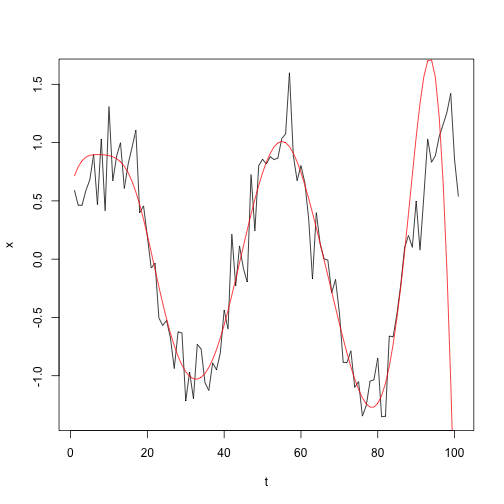
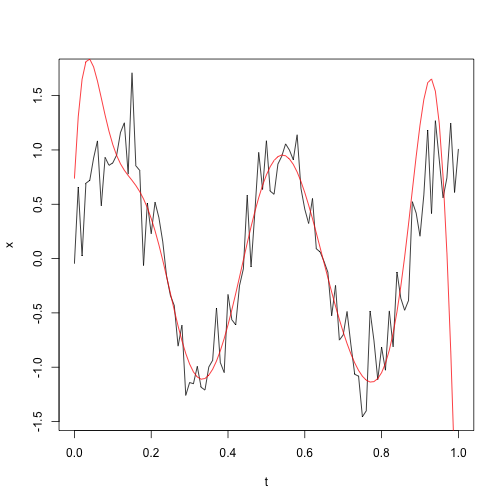
filtfilt

diff --git a/_site/r/2014/02/19/filtfilt.html b/_site/r/2014/02/19/filtfilt.html
@@ -222,12 +222,7 @@
 21
 22
 23
-24
-25
-26
-27
-28
-29</code></pre></div></td><td class='code'><div class='highlight'><pre>ab <span class='o'>&lt;-</span> signal<span class='o'>::</span>butter<span class='p'>(</span><span class='m'>3</span><span class='p'>,</span> <span class='m'>0.1</span><span class='p'>)</span>
+24</code></pre></div></td><td class='code'><div class='highlight'><pre>ab <span class='o'>&lt;-</span> signal<span class='o'>::</span>butter<span class='p'>(</span><span class='m'>3</span><span class='p'>,</span> <span class='m'>0.1</span><span class='p'>)</span>
 t <span class='o'>&lt;-</span> seq<span class='p'>(</span><span class='m'>0</span><span class='p'>,</span> <span class='m'>1</span><span class='p'>,</span> <span class='m'>0.01</span><span class='p'>)</span>
 x <span class='o'>&lt;-</span> sin<span class='p'>(</span><span class='m'>2</span> <span class='o'>*</span> pi <span class='o'>*</span> t <span class='o'>*</span> <span class='m'>2.3</span><span class='p'>)</span> <span class='o'>+</span> <span class='m'>0.25</span> <span class='o'>*</span> rnorm<span class='p'>(</span>length<span class='p'>(</span>t<span class='p'>))</span>
 <span class='c1'>## below could be extracted to a function when working</span>
@@ -246,14 +241,20 @@ si <span class='o'>&lt;-</span> si<span class='p'>[</span><span class='m'>-1</sp
 nx <span class='o'>&lt;-</span> length<span class='p'>(</span>x<span class='p'>)</span>
 n <span class='o'>&lt;-</span> max<span class='p'>(</span>na<span class='p'>,</span> nb<span class='p'>)</span>
 lrefl <span class='o'>&lt;-</span> <span class='m'>3</span> <span class='o'>*</span> <span class='p'>(</span>n <span class='o'>-</span> <span class='m'>1</span><span class='p'>)</span>
-<span class='kr'>if</span> <span class='p'>(</span>na <span class='o'>&lt;</span> n<span class='p'>)</span> a <span class='o'>&lt;-</span> c<span class='p'>(</span>a<span class='p'>,</span> rep<span class='p'>(</span><span class='m'>0</span><span class='p'>,</span> n <span class='o'>-</span> na<span class='p'>))</span>
-<span class='kr'>if</span> <span class='p'>(</span>nb <span class='o'>&lt;</span> n<span class='p'>)</span> b <span class='o'>&lt;-</span> c<span class='p'>(</span>b<span class='p'>,</span> rep<span class='p'>(</span><span class='m'>0</span><span class='p'>,</span> n <span class='o'>-</span> nb<span class='p'>))</span>
-v <span class='o'>&lt;-</span> c<span class='p'>(</span><span class='m'>2</span> <span class='o'>*</span> x<span class='p'>[</span><span class='m'>1</span><span class='p'>]</span> <span class='o'>-</span> x<span class='p'>[</span>seq<span class='p'>(</span>lrefl <span class='o'>+</span> <span class='m'>1</span><span class='p'>,</span> <span class='m'>2</span><span class='p'>,</span> <span class='m'>-1</span><span class='p'>)],</span> x<span class='p'>,</span> <span class='m'>2</span> <span class='o'>*</span> x<span class='p'>[</span>nx<span class='p'>]</span> <span class='o'>-</span> x<span class='p'>[</span>seq<span class='p'>(</span>nx <span class='o'>-</span> <span class='m'>1</span><span class='p'>,</span> nx <span class='o'>-</span> 
-    lrefl<span class='p'>,</span> <span class='m'>-1</span><span class='p'>)])</span>
-v <span class='o'>&lt;-</span> signal<span class='o'>::</span>filter<span class='p'>(</span>b<span class='p'>,</span> a<span class='p'>,</span> v<span class='p'>,</span> si <span class='o'>*</span> v<span class='p'>[</span><span class='m'>1</span><span class='p'>])</span>  <span class='c1'># forward filter</span>
+<span class='kr'>if</span> <span class='p'>(</span>na <span class='o'>&lt;</span> n<span class='p'>)</span> a <span class='o'>&lt;-</span> c<span class='p'>(</span>a<span class='p'>,</span> rep<span class='p'>(</span><span class='m'>0</span><span class='p'>,</span> length.out <span class='o'>=</span> n <span class='o'>-</span> na<span class='p'>))</span>
+<span class='kr'>if</span> <span class='p'>(</span>nb <span class='o'>&lt;</span> n<span class='p'>)</span> b <span class='o'>&lt;-</span> c<span class='p'>(</span>b<span class='p'>,</span> rep<span class='p'>(</span><span class='m'>0</span><span class='p'>,</span> length.out <span class='o'>=</span> n <span class='o'>-</span> nb<span class='p'>))</span>
+v <span class='o'>&lt;-</span> c<span class='p'>(</span><span class='m'>2</span> <span class='o'>*</span> x<span class='p'>[</span><span class='m'>1</span><span class='p'>]</span> <span class='o'>-</span> x<span class='p'>[</span>seq.int<span class='p'>(</span>lrefl <span class='o'>+</span> <span class='m'>1</span><span class='p'>,</span> <span class='m'>2</span><span class='p'>,</span> <span class='m'>-1</span><span class='p'>)],</span> x<span class='p'>,</span> <span class='m'>2</span> <span class='o'>*</span> x<span class='p'>[</span>nx<span class='p'>]</span> <span class='o'>-</span> x<span class='p'>[</span>seq.int<span class='p'>(</span>nx <span class='o'>-</span> 
+    <span class='m'>1</span><span class='p'>,</span> nx <span class='o'>-</span> lrefl<span class='p'>,</span> <span class='m'>-1</span><span class='p'>)])</span>
+warning<span class='p'>(</span><span class='s'>&quot;relying on filter to do as in matlab\n&quot;</span><span class='p'>)</span>
+</pre></div>
+</td></tr></table><div class='highlight'><pre><code class='text'>## Warning: relying on filter to do as in matlab
+</code></pre></div><table class='highlighttable'><tr><td class='linenos'><div class='linenodiv'><pre><code class='r'>1
+2
+3
+4
+5</code></pre></div></td><td class='code'><div class='highlight'><pre>v <span class='o'>&lt;-</span> signal<span class='o'>::</span>filter<span class='p'>(</span>b<span class='p'>,</span> a<span class='p'>,</span> v<span class='p'>,</span> si <span class='o'>*</span> v<span class='p'>[</span><span class='m'>1</span><span class='p'>])</span>  <span class='c1'># forward filter</span>
 v <span class='o'>&lt;-</span> rev<span class='p'>(</span>signal<span class='o'>::</span>filter<span class='p'>(</span>b<span class='p'>,</span> a<span class='p'>,</span> rev<span class='p'>(</span>v<span class='p'>),</span> si <span class='o'>*</span> v<span class='p'>[</span>nx<span class='p'>]))</span>  <span class='c1'># reverse filter</span>
 y <span class='o'>&lt;-</span> v<span class='p'>[</span>seq.int<span class='p'>(</span>lrefl <span class='o'>+</span> <span class='m'>1</span><span class='p'>,</span> lx <span class='o'>+</span> lrefl<span class='p'>)]</span>
-t <span class='o'>&lt;-</span> seq_along<span class='p'>(</span>x<span class='p'>)</span>
 plot<span class='p'>(</span>t<span class='p'>,</span> x<span class='p'>,</span> type <span class='o'>=</span> <span class='s'>&quot;l&quot;</span><span class='p'>)</span>
 lines<span class='p'>(</span>t<span class='p'>,</span> y<span class='p'>,</span> col <span class='o'>=</span> <span class='s'>&quot;red&quot;</span><span class='p'>)</span>
 </pre></div>

diff --git a/_posts/2014-02-19-filtfilt.md b/_posts/2014-02-19-filtfilt.md
@@ -146,14 +146,25 @@ si <- si[-1]
 nx <- length(x)
 n <- max(na, nb)
 lrefl <- 3 * (n - 1)
-if (na < n) a <- c(a, rep(0, n - na))
-if (nb < n) b <- c(b, rep(0, n - nb))
-v <- c(2 * x[1] - x[seq(lrefl + 1, 2, -1)], x, 2 * x[nx] - x[seq(nx - 1, nx - 
-    lrefl, -1)])
+if (na < n) a <- c(a, rep(0, length.out = n - na))
+if (nb < n) b <- c(b, rep(0, length.out = n - nb))
+v <- c(2 * x[1] - x[seq.int(lrefl + 1, 2, -1)], x, 2 * x[nx] - x[seq.int(nx - 
+    1, nx - lrefl, -1)])
+warning("relying on filter to do as in matlab\n")
+{% endhighlight %}
+
+
+
+{% highlight text %}
+## Warning: relying on filter to do as in matlab
+{% endhighlight %}
+
+
+
+{% highlight r linenos=table %}
 v <- signal::filter(b, a, v, si * v[1])  # forward filter
 v <- rev(signal::filter(b, a, rev(v), si * v[nx]))  # reverse filter
 y <- v[seq.int(lrefl + 1, lx + lrefl)]
-t <- seq_along(x)
 plot(t, x, type = "l")
 lines(t, y, col = "red")
 {% endhighlight %}
